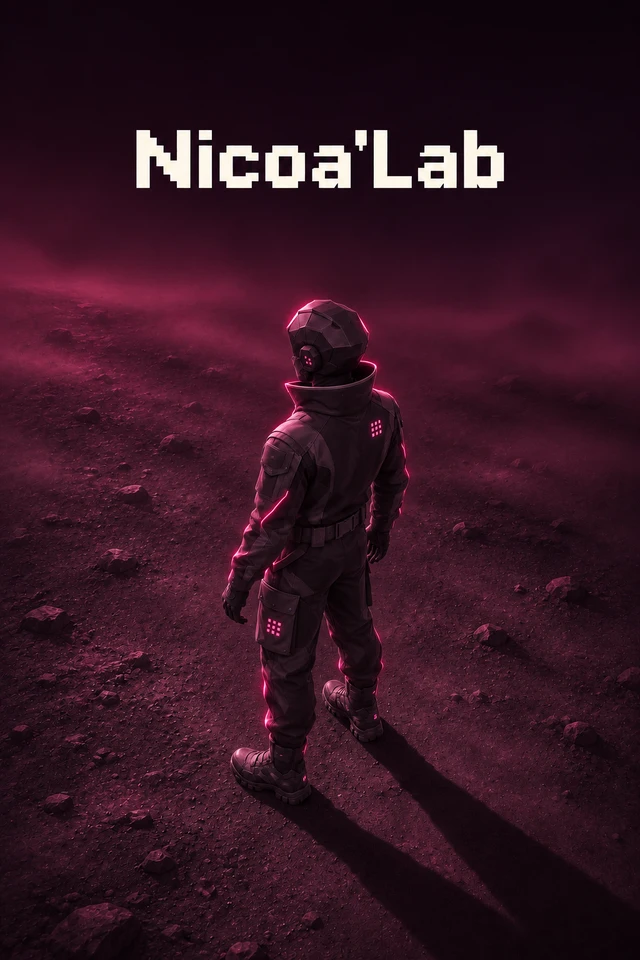
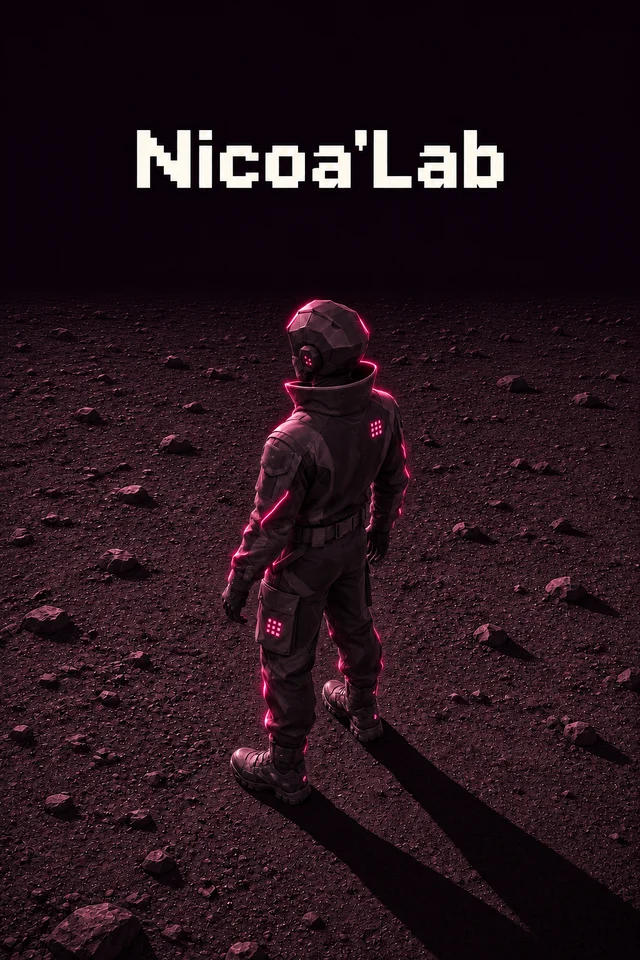
Preview fog-free and layered visual design modes
Dashboard-Batch: portfolio-visual-design-demo

diff --git a/demos/visual-design/style.css b/demos/visual-design/style.css
@@ -57,40 +57,54 @@ button { font: inherit; }
   overflow: hidden;
   box-shadow: 0 0 64px #0a050a;
 }
-.poster img { display: block; width: 100%; height: 100%; object-fit: cover; }
+.poster > img { display: block; width: 100%; height: 100%; object-fit: cover; }
 
+.poster-layers { display: none; }
+[data-mode="layers"] .poster-layers { display: contents; }
+[data-mode="layers"] .poster > img { opacity: 0; }
+.poster-floor, .poster-character {
+  position: absolute;
+  inset: 0;
+  width: 100%;
+  height: 100%;
+}
+.poster-floor { z-index: -1; }
+.poster-character { z-index: 2; }
+.poster-layers::before, .poster-layers::after {
+  content: "";
+  position: absolute;
+  width: 56%;
+  height: 5%;
+  transform: rotate(39deg);
+  transform-origin: 0 50%;
+  background: radial-gradient(ellipse at 12% 50%, #080208ed 0%, #100511ad 34%, transparent 72%);
+  pointer-events: none;
+}
+.poster-layers::before { left: 38%; top: 79%; }
+.poster-layers::after { left: 52%; top: 74%; }
+.poster-wordmark {
+  position: absolute;
+  z-index: 3;
+  top: 13.5%;
+  left: 21%;
+  width: 58%;
+  height: auto;
+}
 .mist {
   display: none;
   position: absolute;
-  inset: 29% -26% 0;
+  z-index: 1;
+  inset: 25% 0 0;
+  width: 100%;
+  height: 75%;
   pointer-events: none;
 }
-[data-mode="mist"] .mist { display: block; }
-.mist::before, .mist::after { content: ""; position: absolute; inset: 0; }
+[data-mode="mist"] .mist, [data-mode="layers"] .mist { display: block; }
 
-.mist::before {
-  background:
-    radial-gradient(ellipse at 20% 68%, #c6547c77 0%, transparent 34%),
-    radial-gradient(ellipse at 65% 76%, #651a4666 0%, transparent 48%),
-    radial-gradient(ellipse at 86% 26%, #d3487770 0%, transparent 37%);
-  opacity: .57;
-  animation: drift 13s ease-in-out infinite alternate;
-}
-.mist::after {
-  background:
-    radial-gradient(ellipse at 31% 30%, #9a2e5e70 0%, transparent 38%),
-    radial-gradient(ellipse at 77% 57%, #e1679160 0%, transparent 43%);
-  opacity: .48;
-  animation: drift 19s ease-in-out -7s infinite alternate-reverse;
-}
-@keyframes drift {
-  from { transform: translate3d(-9%, 4%, 0) scale(1.06); opacity: .4; }
-  to { transform: translate3d(12%, -4%, 0) scale(1.28); opacity: .8; }
-}
-
-.exhibit-controls { justify-content: center; border-top: 1px solid #533040; }
+ .exhibit-controls { justify-content: center; border-top: 1px solid #533040; }
 .exhibit-controls[hidden] { display: none; }
-.mode-controls { display: flex; gap: 4px; }
+.mode-controls { display: flex; flex-wrap: wrap; justify-content: center; gap: 4px; }
+.exhibit-status { flex-basis: 100%; margin: 0; text-align: center; }
 .exhibit-controls button {
   min-height: 44px;
   padding: 6px 13px;
@@ -121,7 +135,4 @@ button { font: inherit; }
     width: min(100%, calc((100svh - 112px) * .666667));
     width: min(100cqw, 66.666667cqh);
   }
-}
-@media (prefers-reduced-motion: reduce) {
-  .mist::before, .mist::after { animation: none; }
 }

diff --git a/demos/visual-design/fog.js b/demos/visual-design/fog.js
@@ -1,0 +1,88 @@
+function smooth(value) {
+  return value * value * (3 - 2 * value);
+}
+
+function gridValue(x, y) {
+  const seed = Math.imul(x, 374761393) ^ Math.imul(y, 668265263);
+  const hash = Math.imul(seed ^ (seed >>> 13), 1274126177);
+  return ((hash ^ (hash >>> 16)) >>> 0) / 4294967295;
+}
+
+function noise(x, y) {
+  const left = Math.floor(x);
+  const top = Math.floor(y);
+  const u = smooth(x - left);
+  const v = smooth(y - top);
+  const upper = gridValue(left, top) * (1 - u) + gridValue(left + 1, top) * u;
+  const lower = gridValue(left, top + 1) * (1 - u) + gridValue(left + 1, top + 1) * u;
+  return upper * (1 - v) + lower * v;
+}
+
+function fogDensity(x, y, time) {
+  const warp = noise(x * .74 + time * .07, y * .49 + 12) - .5;
+  const alongWind = x - time * .28 + 8;
+  const acrossWind = y + warp * 2.2 + time * .04;
+  return noise(alongWind, acrossWind) * .58
+    + noise(alongWind * 2 + 11, acrossWind * 2 + 7) * .28
+    + noise(alongWind * 4 + 3, acrossWind * 4 + 19) * .14;
+}
+
+export function createFog(canvas) {
+  const context = canvas.getContext('2d');
+  if (!context) return null;
+
+  const { width, height } = canvas;
+  const frame = context.createImageData(width, height);
+  const motion = matchMedia('(prefers-reduced-motion: reduce)');
+  let active = false;
+  let scheduled = 0;
+  let elapsed = 0;
+  let lastFrame = 0;
+
+  for (let offset = 0; offset < frame.data.length; offset += 4) {
+    frame.data[offset] = 215;
+    frame.data[offset + 1] = 112;
+    frame.data[offset + 2] = 156;
+  }
+
+  function draw() {
+    for (let row = 0; row < height; row++) {
+      const v = row / (height - 1);
+      const fadeIn = smooth(Math.min(v / .15, 1));
+      const fadeOut = smooth(Math.min((1 - v) / .55, 1));
+      for (let column = 0; column < width; column++) {
+        const u = column / (width - 1);
+        const density = fogDensity(u * 3.1, v * 8.5, elapsed);
+        const opacity = smooth(Math.max(0, Math.min(1, (density - .33) / .52)));
+        frame.data[(row * width + column) * 4 + 3] = 120 * opacity * fadeIn * fadeOut;
+      }
+    }
+    context.putImageData(frame, 0, 0);
+  }
+
+  function tick(timestamp) {
+    if (!lastFrame || timestamp - lastFrame >= 1000 / 24) {
+      if (lastFrame) elapsed += Math.min(timestamp - lastFrame, 100) / 1000;
+      lastFrame = timestamp;
+      draw();
+    }
+    scheduled = requestAnimationFrame(tick);
+  }
+
+  function update() {
+    cancelAnimationFrame(scheduled);
+    lastFrame = 0;
+    if (!active || document.hidden) return;
+    if (motion.matches) draw();
+    else scheduled = requestAnimationFrame(tick);
+  }
+
+  motion.addEventListener('change', update);
+  document.addEventListener('visibilitychange', update);
+  return {
+    setActive(nextActive) {
+      active = nextActive;
+      update();
+    }
+  };
+}

diff --git a/demos/visual-design/site.js b/demos/visual-design/site.js
@@ -1,15 +1,48 @@
+import { createFog } from './fog.js';
+
 const exhibit = document.querySelector('.exhibit');
 const controls = document.querySelector('.exhibit-controls');
 const fullscreenButton = document.querySelector('[data-fullscreen]');
 const modeButtons = [...document.querySelectorAll('[data-show-mode]')];
+const layerImages = [...exhibit.querySelectorAll('[data-src]')];
+const status = exhibit.querySelector('.exhibit-status');
+let layerLoad;
+let requestedMode;
 
-console.info('[視覺展示 0/3] 輸入絕對 URL', location.href, import.meta.url, exhibit.querySelector('img').src);
+console.info('[視覺展示 0/3] 輸入絕對 URL', location.href, import.meta.url, exhibit.querySelector('img').src,
+  ...layerImages.map(image => new URL(image.dataset.src, location.href).href));
 console.info('[視覺展示 0/3] 輸出絕對 URL', location.href, '只更新展示模式與全螢幕狀態。');
+const fog = createFog(exhibit.querySelector('.mist'));
 
 function setMode(mode) {
   exhibit.dataset.mode = mode;
+  fog?.setActive(mode !== 'still');
   for (const button of modeButtons) {
     button.setAttribute('aria-pressed', String(button.dataset.showMode === mode));
+  }
+}
+
+async function showMode(mode) {
+  requestedMode = fog ? mode : 'still';
+  status.hidden = true;
+  if (requestedMode !== 'layers') {
+    setMode(requestedMode);
+    return;
+  }
+
+  layerLoad ??= Promise.all(layerImages.map(image => {
+    image.src = image.dataset.src;
+    return image.decode();
+  }));
+  try {
+    await layerLoad;
+    if (requestedMode === 'layers') setMode('layers');
+  } catch {
+    layerLoad = undefined;
+    if (requestedMode !== 'layers') return;
+    setMode('still');
+    status.textContent = status.dataset.layerError;
+    status.hidden = false;
   }
 }
 
@@ -19,10 +52,12 @@ function syncFullscreen() {
 }
 
 for (const button of modeButtons) {
-  button.addEventListener('click', () => setMode(button.dataset.showMode));
+  button.disabled = !fog && button.dataset.showMode !== 'still';
+  button.addEventListener('click', () => showMode(button.dataset.showMode));
 }
-setMode(new URL(location.href).searchParams.get('mode') === 'mist' ? 'mist' : 'still');
-console.info('[視覺展示 1/3] 靜態與霧氣控制就緒。');
+const initialMode = new URL(location.href).searchParams.get('mode');
+showMode(['mist', 'layers'].includes(initialMode) ? initialMode : 'still');
+console.info('[視覺展示 1/3] 靜態、動態霧氣與分層模式控制就緒。');
 
 fullscreenButton.addEventListener('click', async () => {
   if (document.fullscreenElement === exhibit) {

diff --git a/demos/visual-design/en/index.html b/demos/visual-design/en/index.html
@@ -34,16 +34,23 @@
         <img src="../assets/poster-magenta.webp"
           srcset="../assets/poster-magenta-640.webp 640w, ../assets/poster-magenta.webp 1024w"
           sizes="(max-width: 720px) 100vw, min(100vw, 67svh)"
-          width="1024" height="1536" fetchpriority="high" alt="A high rear view of the Nicoa’Lab poster character on rocky ground, with magenta haze and a long diagonal shadow.">
-        <div class="mist" aria-hidden="true"></div>
+          width="1024" height="1536" fetchpriority="high" alt="The Nicoa’Lab magenta poster, looking down on a character facing away on rocky ground with a long diagonal shadow.">
+        <div class="poster-layers" aria-hidden="true">
+          <img class="poster-floor" data-src="../assets/floor.webp" alt="">
+          <img class="poster-character" data-src="../assets/character.webp" alt="">
+          <img class="poster-wordmark" data-src="../assets/wordmark.webp" alt="">
+        </div>
+        <canvas class="mist" width="128" height="112" aria-hidden="true"></canvas>
       </figure>
     </div>
     <footer class="exhibit-controls" hidden>
       <div class="mode-controls" role="group" aria-label="Display mode">
         <button type="button" data-show-mode="still" aria-pressed="true">Still</button>
         <button type="button" data-show-mode="mist" aria-pressed="false">Moving fog</button>
+        <button type="button" data-show-mode="layers" aria-pressed="false">Layered fog</button>
       </div>
       <button type="button" data-fullscreen data-enter-label="Full screen" data-exit-label="Exit full screen">Full screen</button>
+      <p class="exhibit-status" role="status" data-layer-error="The layers could not load. The still poster is shown." hidden></p>
     </footer>
   </main>
 </body>

diff --git a/demos/visual-design/index.html b/demos/visual-design/index.html
@@ -34,16 +34,23 @@
         <img src="./assets/poster-magenta.webp"
           srcset="./assets/poster-magenta-640.webp 640w, ./assets/poster-magenta.webp 1024w"
           sizes="(max-width: 720px) 100vw, min(100vw, 67svh)"
-          width="1024" height="1536" fetchpriority="high" alt="紫紅霧中的岩地，角色從右後方俯視，長影延伸到右下。">
-        <div class="mist" aria-hidden="true"></div>
+          width="1024" height="1536" fetchpriority="high" alt="Nicoa’Lab 紫紅海報，從角色後上方俯視岩地，長影落向右下。">
+        <div class="poster-layers" aria-hidden="true">
+          <img class="poster-floor" data-src="./assets/floor.webp" alt="">
+          <img class="poster-character" data-src="./assets/character.webp" alt="">
+          <img class="poster-wordmark" data-src="./assets/wordmark.webp" alt="">
+        </div>
+        <canvas class="mist" width="128" height="112" aria-hidden="true"></canvas>
       </figure>
     </div>
     <footer class="exhibit-controls" hidden>
       <div class="mode-controls" role="group" aria-label="展示模式">
         <button type="button" data-show-mode="still" aria-pressed="true">靜態</button>
         <button type="button" data-show-mode="mist" aria-pressed="false">動態霧氣</button>
+        <button type="button" data-show-mode="layers" aria-pressed="false">分層霧氣</button>
       </div>
       <button type="button" data-fullscreen data-enter-label="全螢幕" data-exit-label="離開全螢幕">全螢幕</button>
+      <p class="exhibit-status" role="status" data-layer-error="分層素材載入失敗，已回到靜態海報。" hidden></p>
     </footer>
   </main>
 </body>

diff --git a/demos/visual-design/README.md b/demos/visual-design/README.md
@@ -1,7 +1,15 @@
 # 網頁視覺設計展示
 
-`/MyPortfolio/demos/visual-design/` 是繁中版，`/MyPortfolio/demos/visual-design/en/` 是英文版。桌面以同色背景置中展示完整海報，手機保留原圖 2:3。靜態模式顯示海報本身，動態模式用兩層 CSS 霧氣做不同速度的漂移。系統偏好減少動態效果時，霧氣停在靜止狀態。
+`/MyPortfolio/demos/visual-design/` 是繁中版，`/MyPortfolio/demos/visual-design/en/` 是英文版。桌面置中展示完整海報，手機保留原圖 2:3。
 
-`site.js` 先印出頁面、海報和腳本的絕對 URL，再掛接模式、全螢幕與備援按鈕。瀏覽器無法進入原生全螢幕時會填滿目前視窗，按離開全螢幕或 Esc 返回。`?mode=mist` 可直接進入霧氣模式。
+- **靜態**顯示無霧的 1024×1536 或 640×960 海報，瀏覽器按視窗大小選取 WebP。
+- **動態霧氣**（`?mode=mist`）在無霧海報上疊加 Canvas。雜訊取樣隨時間平移與扭曲，改變霧氣形狀。
+- **分層霧氣**（`?mode=layers`）先載入並解碼地板、去背角色和去背字標。合成順序由底到頂為地板、Canvas 霧、角色、字標。圖檔載入失敗時顯示靜態海報與提示。
 
-海報以 ImageMagick 從歸檔 PNG 輸出 1024×1536 與 640×960 WebP。轉檔前列出來源及輸出絕對路徑，轉檔後以 `magick identify` 核對尺寸。站點根目錄設定 `$env:PORT='4261'` 後執行 `node serve.mjs`。在雙語首頁檢查示範卡，在展示頁檢查兩種模式、全螢幕及手機比例。執行 `node sync-seo.mjs` 更新雙語中繼資料和 sitemap，再用 `node check-site.mjs` 與 `node sync-seo.mjs --check` 驗證。
+`site.js` 先印出頁面、圖檔和腳本的絕對 URL，接著掛接模式、全螢幕與備援按鈕。瀏覽器無法進入原生全螢幕時會填滿目前視窗，按離開全螢幕或 Esc 返回。`fog.js` 以 128×112 的 Canvas 產生紫紅透明霧，每秒最多更新 24 幀。靜態模式和背景分頁暫停更新，系統偏好減少動態效果時只繪製一幀。
+
+霧效參考多層雜訊生成雲和取樣座標扭曲的公開範例。 [The Book of Shaders](https://thebookofshaders.com/13/) [JayKay Cooperations 的互動示範](https://jaykaycooperations.com/domainWarping/)
+
+以原紫紅海報為 ImageGen 的輸入，保留原機位、角色、岩地與紫紅邊光，清除畫面內所有霧氣，另輸出只含岩地、只含透明角色、只含透明像素字標的 PNG。原圖歸檔在 `.preview/visual-design-assets/`。ImageMagick 轉成網站使用的 WebP，地板與角色保留共同畫布，字標裁成獨立的橫幅。轉檔前列出來源及輸出絕對路徑，轉檔後以 `magick identify` 核對尺寸與透明通道。
+
+站點根目錄設定 `$env:PORT='4262'` 後執行 `node serve.mjs`。在雙語首頁檢查示範卡，在展示頁檢查三種模式、全螢幕及手機比例。執行 `node check-site.mjs` 與 `node sync-seo.mjs --check` 驗證站點。
